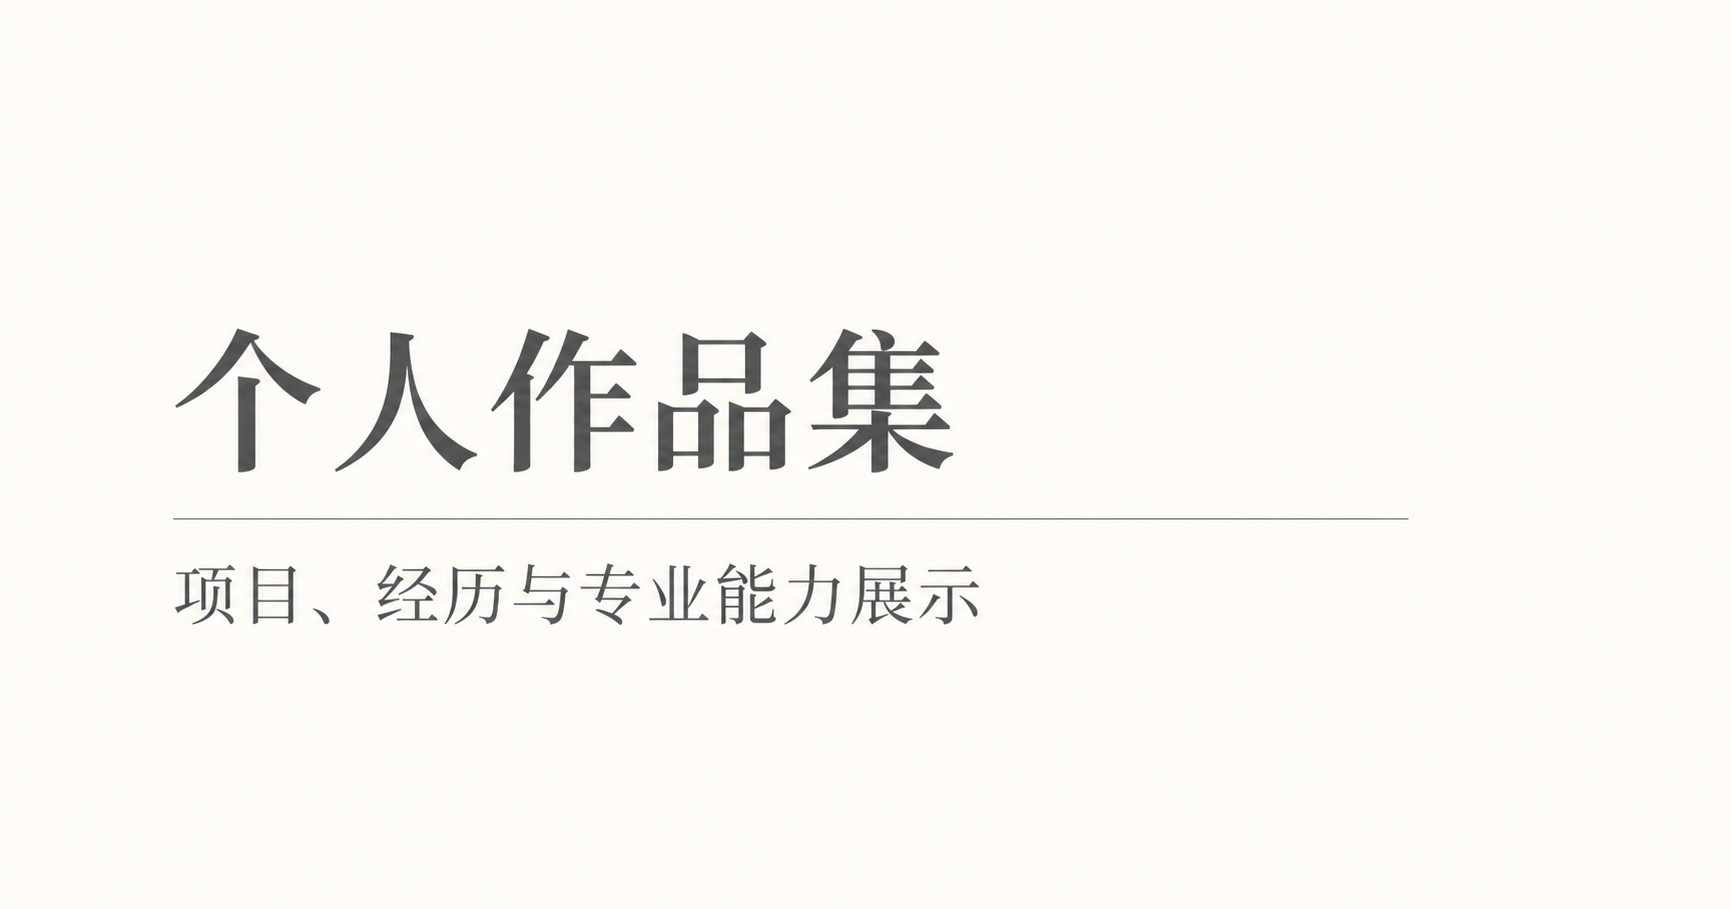
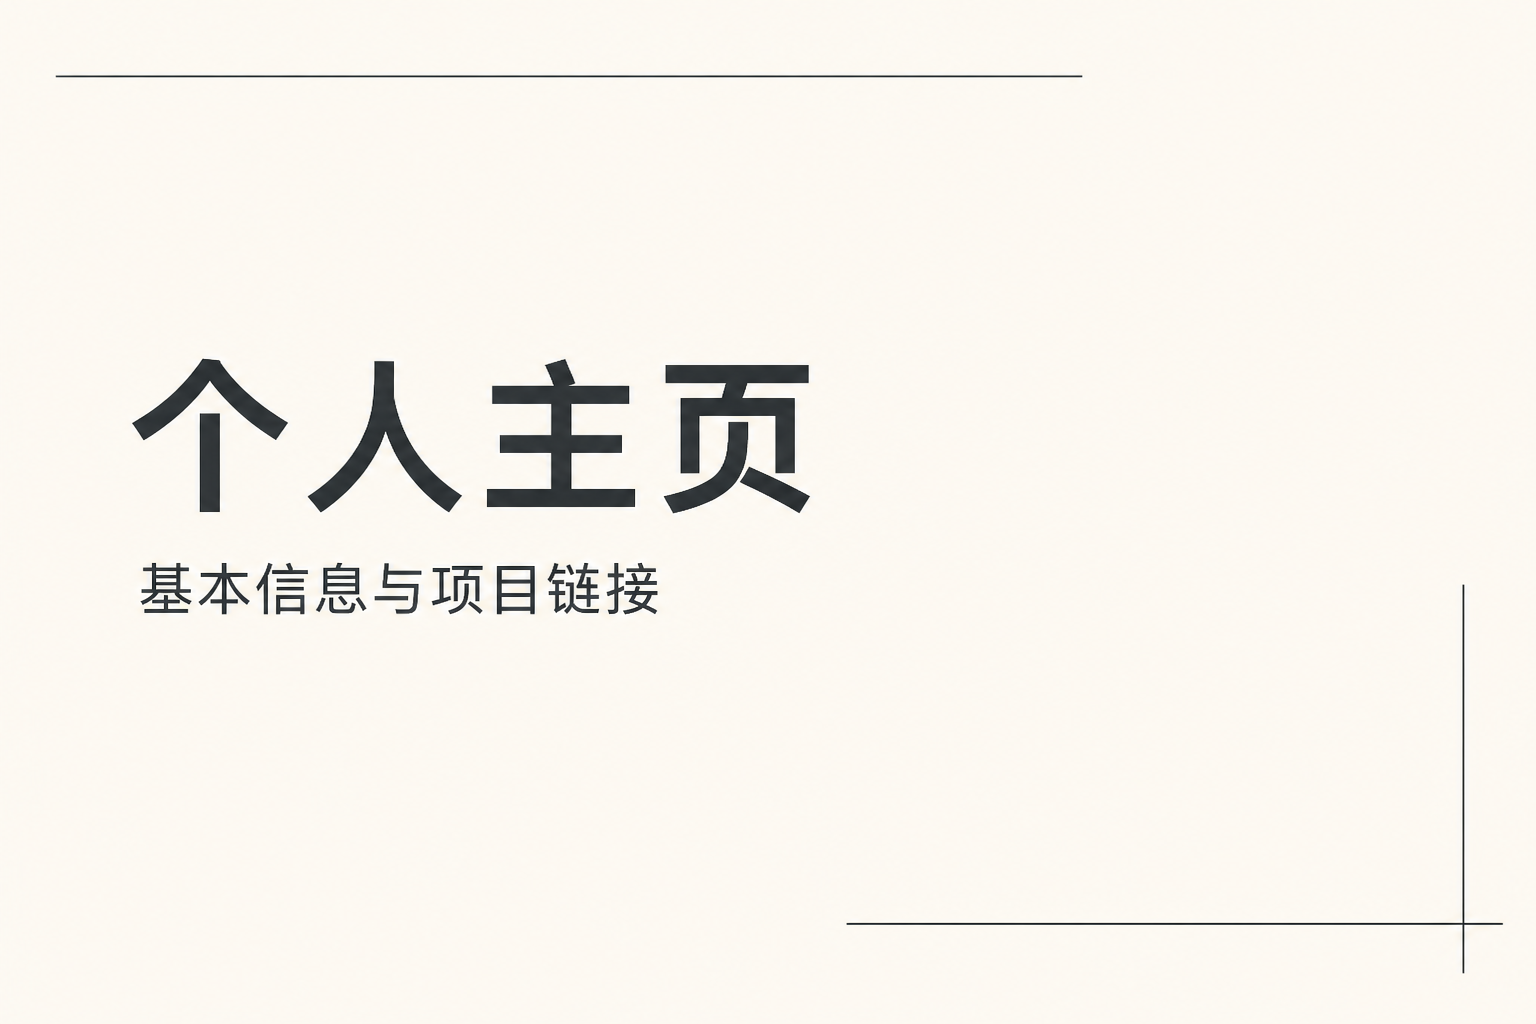
Simplify portfolio to basic profile and links

diff --git a/README.md b/README.md
@@ -1,6 +1,6 @@
 # 个人作品集
 
-一个使用 Astro 构建、部署于 GitHub Pages 的个人项目与求职信息展示网站。
+一个使用 Astro 构建、部署于 GitHub Pages 的简洁个人主页，只展示基本信息和项目链接。
 
 ## 本地运行
 
@@ -11,4 +11,4 @@ npm run dev
 
 ## 内容状态
 
-个人信息、求职方向、项目材料和 PDF 简历目前保留为待补充状态，不包含推测性内容。
+个人信息目前保留为待补充状态。两个项目为明确标注的模拟内容，后续可直接替换。
